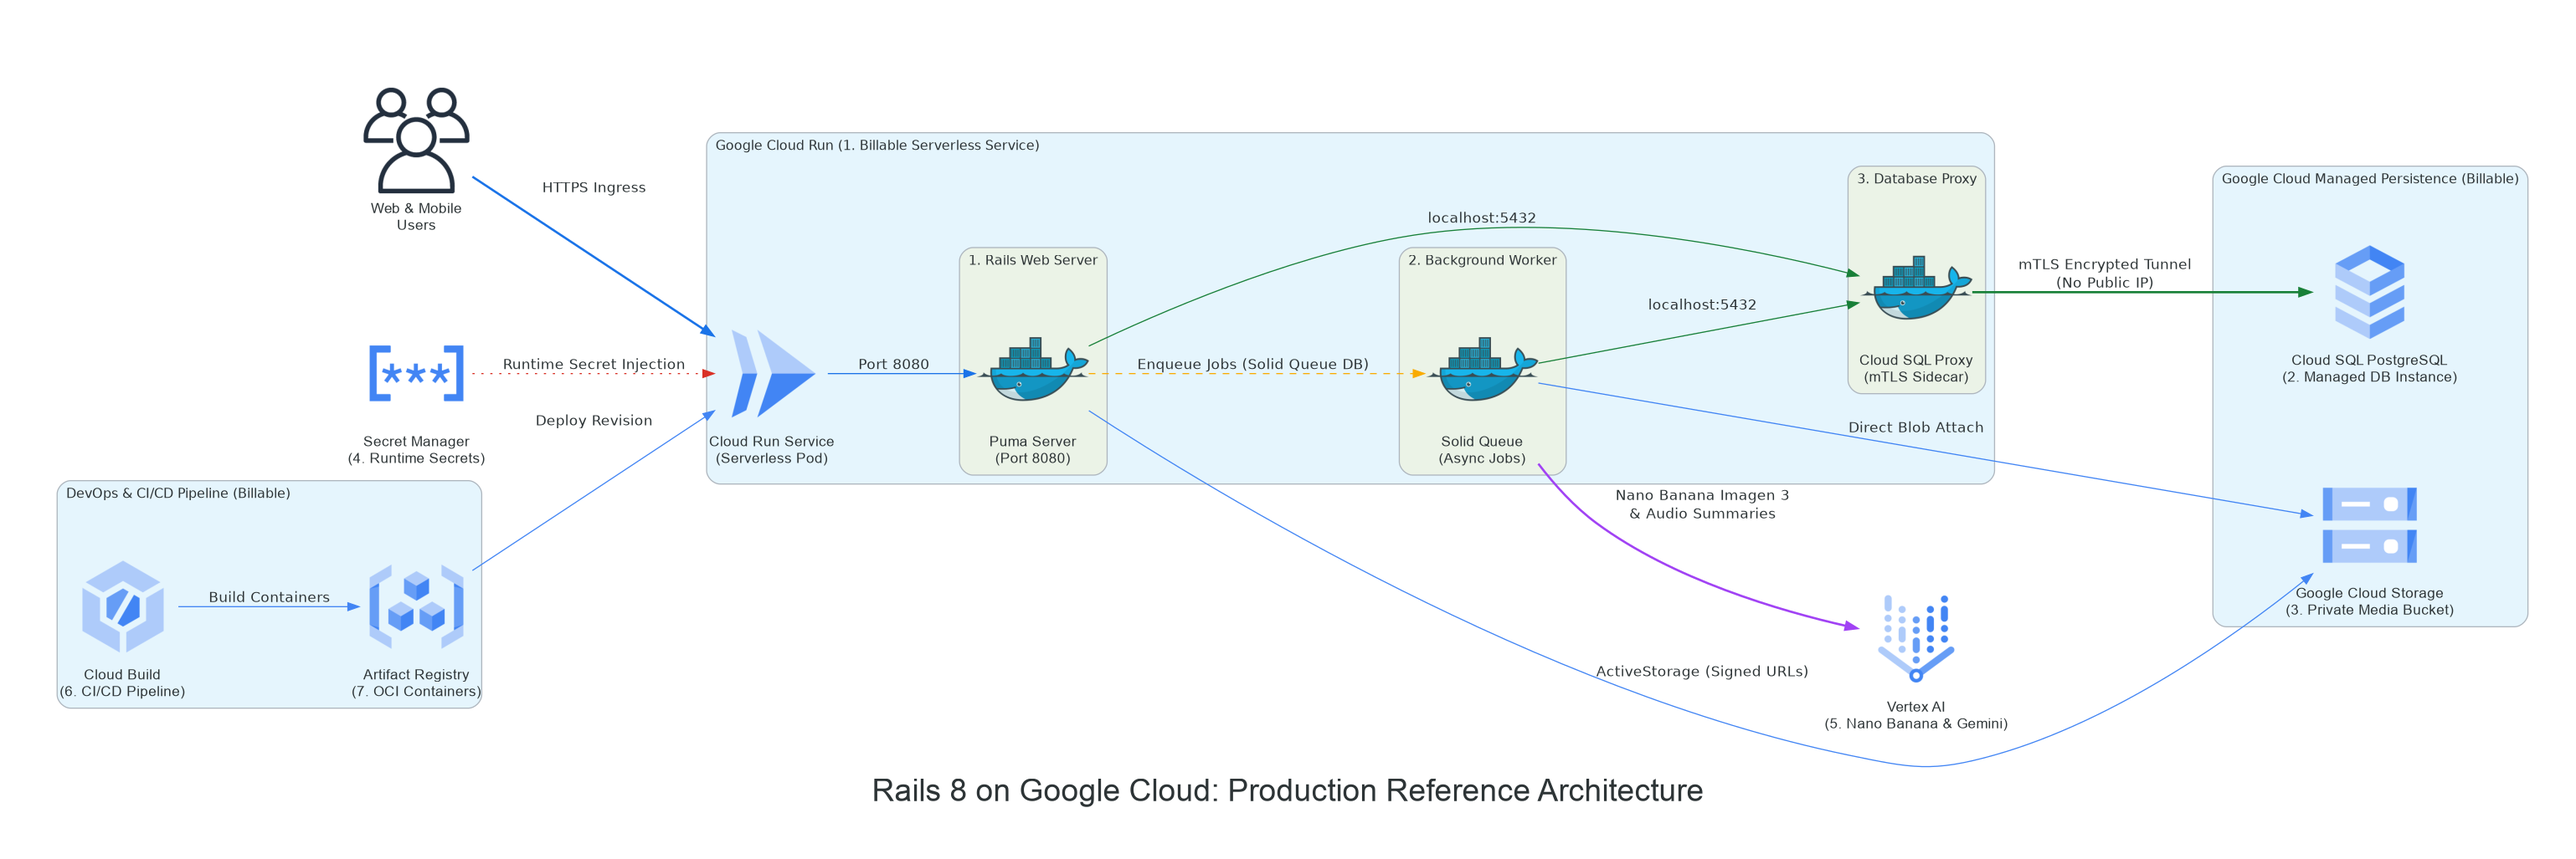
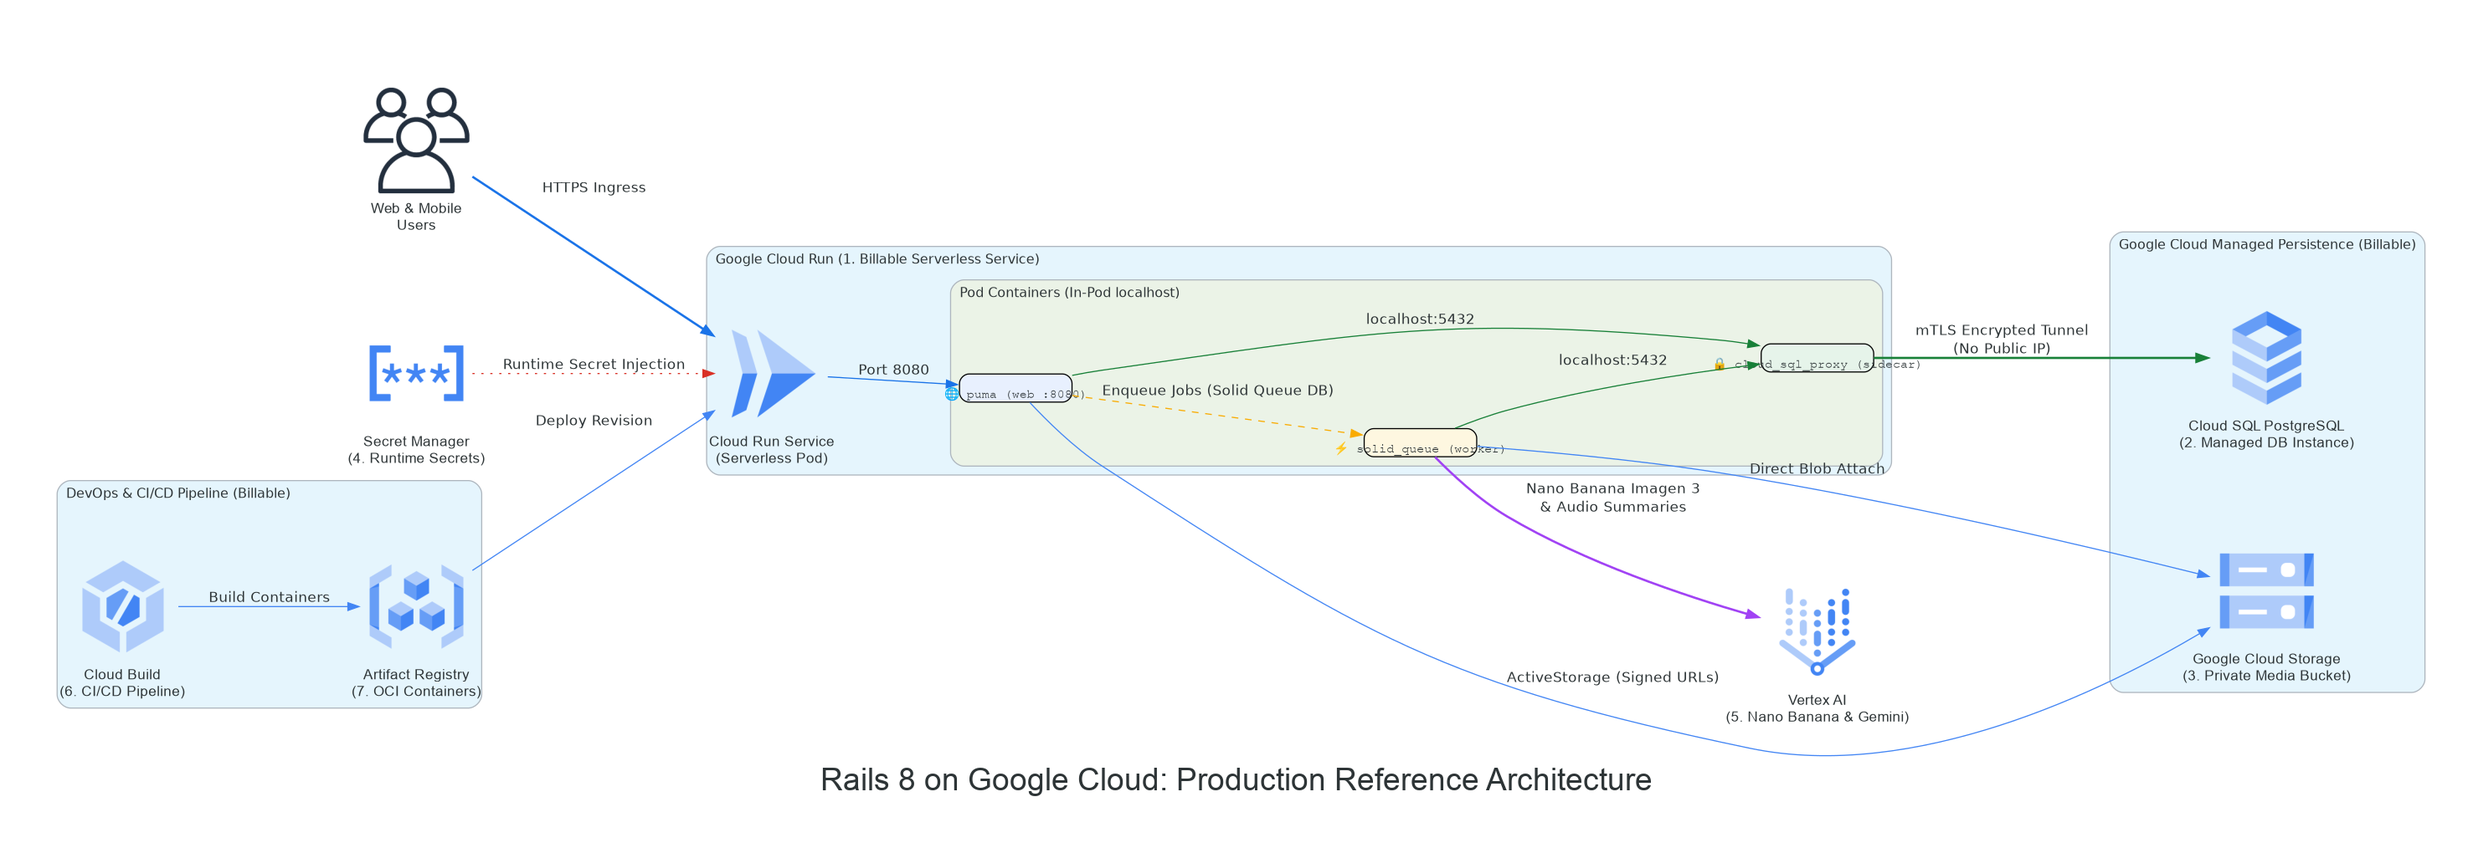
refactor(diagram): compact 3-row monospace container layout with emojis

diff --git a/diagrams/generate_diagrams.py b/diagrams/generate_diagrams.py
@@ -4,7 +4,8 @@
 Generates:
 1. Canonical production reference architecture diagram (arch_diagram.png),
    highlighting exclusively REAL BILLABLE Google Cloud products with a single
-   Cloud Run service icon and 3 sub-matrioska containers.
+   Cloud Run service icon and 3 compact stacked sub-containers in monospace (tt)
+   with emoji icons.
 2. Progressive evolutionary frames and animated GIF (arch_evolution.gif).
 """
 
@@ -14,7 +15,7 @@ import shutil
 import sys
 from pathlib import Path
 
-from diagrams import Diagram, Cluster, Edge
+from diagrams import Diagram, Cluster, Edge, Node
 from diagrams.gcp.compute import Run
 from diagrams.gcp.database import SQL
 from diagrams.gcp.storage import Storage
@@ -23,7 +24,6 @@ from diagrams.gcp.ml import VertexAI
 from diagrams.gcp.devtools import Build, ContainerRegistry
 from diagrams.generic.database import SQL as GenericSQL
 from diagrams.generic.storage import Storage as GenericStorage
-from diagrams.onprem.container import Docker
 from diagrams.onprem.client import Users, Client
 from PIL import Image
 
@@ -62,7 +62,7 @@ def ensure_dirs():
 
 def generate_canonical():
     """Generates the canonical production GCP architecture diagram highlighting real billable GCP objects."""
-    print("🎨 Generating Canonical Google Cloud Architecture Diagram (Billable GCP Objects Only)...")
+    print("🎨 Generating Canonical Google Cloud Architecture Diagram (Compact 3-Row Matrioskas & Billable GCP Objects)...")
     out_filename = OUTPUT_TMP_DIR / "arch_diagram"
 
     with Diagram(
@@ -79,12 +79,11 @@ def generate_canonical():
 
         with Cluster("Google Cloud Run (1. Billable Serverless Service)"):
             cloud_run = Run("Cloud Run Service\n(Serverless Pod)")
-            with Cluster("1. Rails Web Server"):
-                web = Docker("Puma Server\n(Port 8080)")
-            with Cluster("2. Background Worker"):
-                worker = Docker("Solid Queue\n(Async Jobs)")
-            with Cluster("3. Database Proxy"):
-                proxy = Docker("Cloud SQL Proxy\n(mTLS Sidecar)")
+            with Cluster("Pod Containers (In-Pod localhost)"):
+                web = Node("🌐 puma (web :8080)", shape="box", style="rounded,filled", fillcolor="#e8f0fe", fontname="Courier", fontsize="11", height="0.35")
+                worker = Node("⚡ solid_queue (worker)", shape="box", style="rounded,filled", fillcolor="#fef7e0", fontname="Courier", fontsize="11", height="0.35")
+                proxy = Node("🔒 cloud_sql_proxy (sidecar)", shape="box", style="rounded,filled", fillcolor="#e6f4ea", fontname="Courier", fontsize="11", height="0.35")
+                web - Edge(style="invis") - worker - Edge(style="invis") - proxy
 
         with Cluster("Google Cloud Managed Persistence (Billable)"):
             db = SQL("Cloud SQL PostgreSQL\n(2. Managed DB Instance)")
@@ -154,7 +153,7 @@ def generate_evolution():
     ):
         dev = Client("Developer Laptop\n(localhost:3000)")
         with Cluster("Local Host Machine"):
-            web = Docker("Rails 8 (Puma)\n(Port 3000)")
+            web = Node("🌐 puma (web :3000)", shape="box", style="rounded,filled", fillcolor="#e8f0fe", fontname="Courier", fontsize="11", height="0.35")
             sqlite = GenericSQL("Local SQLite DB\n(Ephemeral Disk)")
             disk = GenericStorage("Local Disk Storage\n(public/uploads)")
 
@@ -178,9 +177,10 @@ def generate_evolution():
     ):
         dev = Client("Developer Laptop\n(localhost:3000)")
         with Cluster("Local Environment"):
-            web = Docker("Rails 8 (Puma)\n(Port 3000)")
-            proxy = Docker("Cloud SQL Proxy\n(localhost:5432)")
+            web = Node("🌐 puma (web :3000)", shape="box", style="rounded,filled", fillcolor="#e8f0fe", fontname="Courier", fontsize="11", height="0.35")
+            proxy = Node("🔒 cloud_sql_proxy (localhost:5432)", shape="box", style="rounded,filled", fillcolor="#e6f4ea", fontname="Courier", fontsize="11", height="0.35")
             disk = GenericStorage("Local Disk Storage\n(Ephemeral Uploads)")
+            web - Edge(style="invis") - proxy
 
         with Cluster("Google Cloud Managed Persistence (Billable)"):
             db = SQL("Cloud SQL PostgreSQL\n(Managed Instance)")
@@ -206,8 +206,9 @@ def generate_evolution():
     ):
         dev = Client("Developer Laptop\n(localhost:3000)")
         with Cluster("Local Environment"):
-            web = Docker("Rails 8 (Puma)\n(Port 3000)")
-            proxy = Docker("Cloud SQL Proxy\n(localhost:5432)")
+            web = Node("🌐 puma (web :3000)", shape="box", style="rounded,filled", fillcolor="#e8f0fe", fontname="Courier", fontsize="11", height="0.35")
+            proxy = Node("🔒 cloud_sql_proxy (localhost:5432)", shape="box", style="rounded,filled", fillcolor="#e6f4ea", fontname="Courier", fontsize="11", height="0.35")
+            web - Edge(style="invis") - proxy
 
         with Cluster("Google Cloud Managed Persistence (Billable)"):
             db = SQL("Cloud SQL PostgreSQL\n(Managed Instance)")
@@ -236,12 +237,11 @@ def generate_evolution():
 
         with Cluster("Google Cloud Run (Billable Serverless Service)"):
             cloud_run = Run("Cloud Run Service")
-            with Cluster("1. Rails Web Server"):
-                web = Docker("Puma Server")
-            with Cluster("2. Background Worker"):
-                worker = Docker("Solid Queue")
-            with Cluster("3. Database Proxy"):
-                proxy = Docker("Cloud SQL Proxy")
+            with Cluster("Pod Containers"):
+                web = Node("🌐 puma (web :8080)", shape="box", style="rounded,filled", fillcolor="#e8f0fe", fontname="Courier", fontsize="11", height="0.35")
+                worker = Node("⚡ solid_queue (worker)", shape="box", style="rounded,filled", fillcolor="#fef7e0", fontname="Courier", fontsize="11", height="0.35")
+                proxy = Node("🔒 cloud_sql_proxy (sidecar)", shape="box", style="rounded,filled", fillcolor="#e6f4ea", fontname="Courier", fontsize="11", height="0.35")
+                web - Edge(style="invis") - worker - Edge(style="invis") - proxy
 
         with Cluster("Google Cloud Persistence (Billable)"):
             db = SQL("Cloud SQL PostgreSQL")
